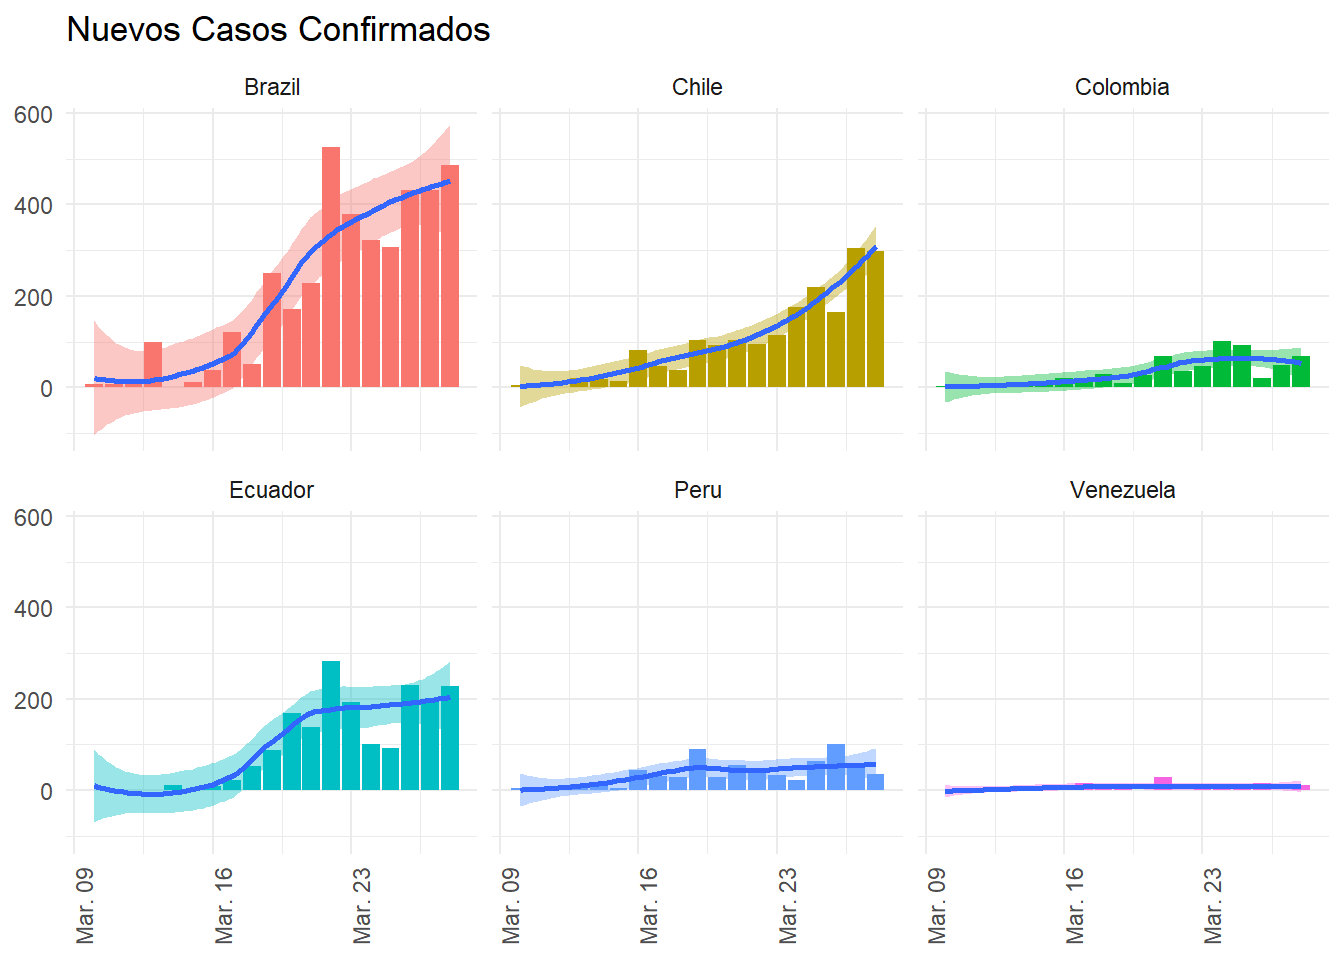
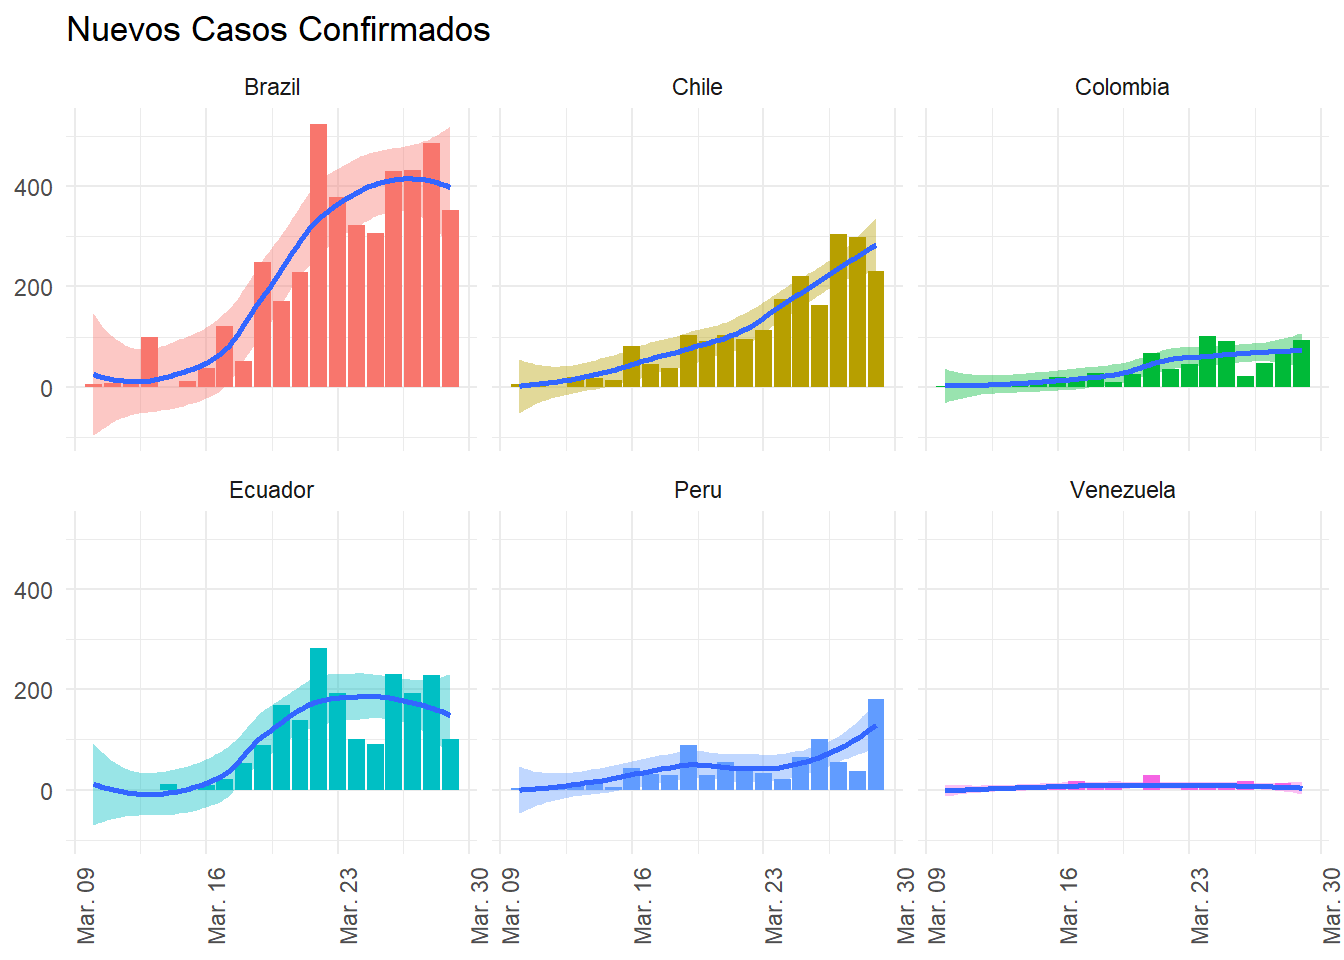
29.03.2020

diff --git a/index.html b/index.html
@@ -12,7 +12,7 @@
 
 <meta name="author" content="Jorge David Morales" />
 
-<meta name="date" content="2020-03-28" />
+<meta name="date" content="2020-03-29" />
 
 <title>JD Website</title>
 
@@ -295,7 +295,7 @@ $(document).ready(function () {
 
 <h1 class="title toc-ignore">JD Website</h1>
 <h4 class="author">Jorge David Morales</h4>
-<h4 class="date">2020-03-28</h4>
+<h4 class="date">2020-03-29</h4>
 
 </div>
 
@@ -304,7 +304,7 @@ $(document).ready(function () {
 <h1>COVID-19</h1>
 <p>Información tomada del GitHub de la Universidad Johns Hopkins, US:<br />
 <a href="https://github.com/CSSEGISandData/COVID-19/tree/master/csse_covid_19_data" class="uri">https://github.com/CSSEGISandData/COVID-19/tree/master/csse_covid_19_data</a></p>
-<pre><code>## [1] &quot;Fecha de último reporte: 2020-03-28&quot;</code></pre>
+<pre><code>## [1] &quot;Fecha de último reporte: 2020-03-29&quot;</code></pre>
 <table class="table table-striped table-hover table-condensed" style="margin-left: auto; margin-right: auto;">
 <thead>
 <tr>
@@ -340,152 +340,152 @@ Death.Rate
 <tbody>
 <tr>
 <td style="text-align:center;">
-2020-03-28
+2020-03-29
 </td>
 <td style="text-align:right;">
 Brazil
 </td>
 <td style="text-align:center;">
-3904
+4256
 </td>
 <td style="text-align:center;">
 6
 </td>
 <td style="text-align:center;">
-111
+136
 </td>
 <td style="text-align:center;">
-487
+352
 </td>
 <td style="text-align:center;">
-3787
+4114
 </td>
 <td style="text-align:right;">
-0.150%
+0.140%
 </td>
 <td style="text-align:center;">
-2.84%
+3.20%
 </td>
 </tr>
 <tr>
 <td style="text-align:center;">
-2020-03-28
+2020-03-29
 </td>
 <td style="text-align:right;">
 Chile
 </td>
 <td style="text-align:center;">
-1909
+2139
 </td>
 <td style="text-align:center;">
-61
+75
 </td>
 <td style="text-align:center;">
-6
+7
 </td>
 <td style="text-align:center;">
-299
+230
 </td>
 <td style="text-align:center;">
-1842
+2057
 </td>
 <td style="text-align:right;">
-3.20%
+3.51%
 </td>
 <td style="text-align:center;">
-0.310%
+0.330%
 </td>
 </tr>
 <tr>
 <td style="text-align:center;">
-2020-03-28
+2020-03-29
 </td>
 <td style="text-align:right;">
 Ecuador
 </td>
 <td style="text-align:center;">
-1823
+1924
 </td>
 <td style="text-align:center;">
 3
 </td>
 <td style="text-align:center;">
-48
+58
 </td>
 <td style="text-align:center;">
-228
+101
 </td>
 <td style="text-align:center;">
-1772
+1863
 </td>
 <td style="text-align:right;">
 0.160%
 </td>
 <td style="text-align:center;">
-2.63%
+3.01%
 </td>
 </tr>
 <tr>
 <td style="text-align:center;">
-2020-03-28
+2020-03-29
 </td>
 <td style="text-align:right;">
 Peru
 </td>
 <td style="text-align:center;">
-671
+852
 </td>
 <td style="text-align:center;">
 16
 </td>
 <td style="text-align:center;">
-16
+18
 </td>
 <td style="text-align:center;">
-36
+181
 </td>
 <td style="text-align:center;">
-639
+818
 </td>
 <td style="text-align:right;">
-2.38%
+1.88%
 </td>
 <td style="text-align:center;">
-2.38%
+2.11%
 </td>
 </tr>
 <tr>
 <td style="text-align:center;">
-2020-03-28
+2020-03-29
 </td>
 <td style="text-align:right;">
 Colombia
 </td>
 <td style="text-align:center;">
-608
+702
 </td>
 <td style="text-align:center;">
 10
 </td>
 <td style="text-align:center;">
-6
+10
 </td>
 <td style="text-align:center;">
-69
+94
 </td>
 <td style="text-align:center;">
-592
+682
 </td>
 <td style="text-align:right;">
-1.64%
+1.42%
 </td>
 <td style="text-align:center;">
-0.990%
+1.42%
 </td>
 </tr>
 <tr>
 <td style="text-align:center;">
-2020-03-28
+2020-03-29
 </td>
 <td style="text-align:right;">
 Venezuela
@@ -500,7 +500,7 @@ Venezuela
 2
 </td>
 <td style="text-align:center;">
-12
+0
 </td>
 <td style="text-align:center;">
 78
